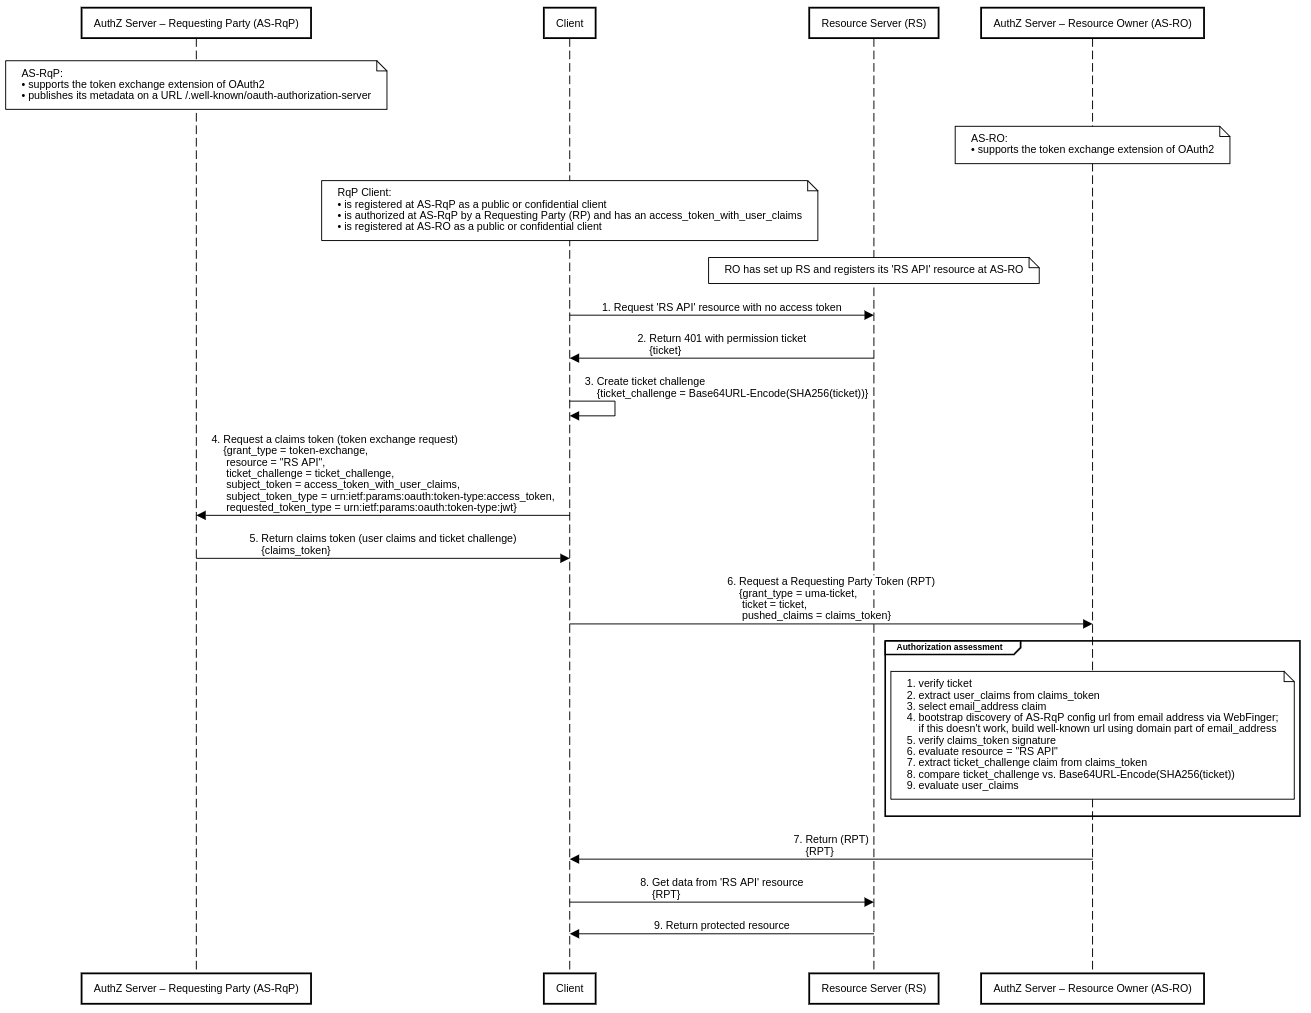
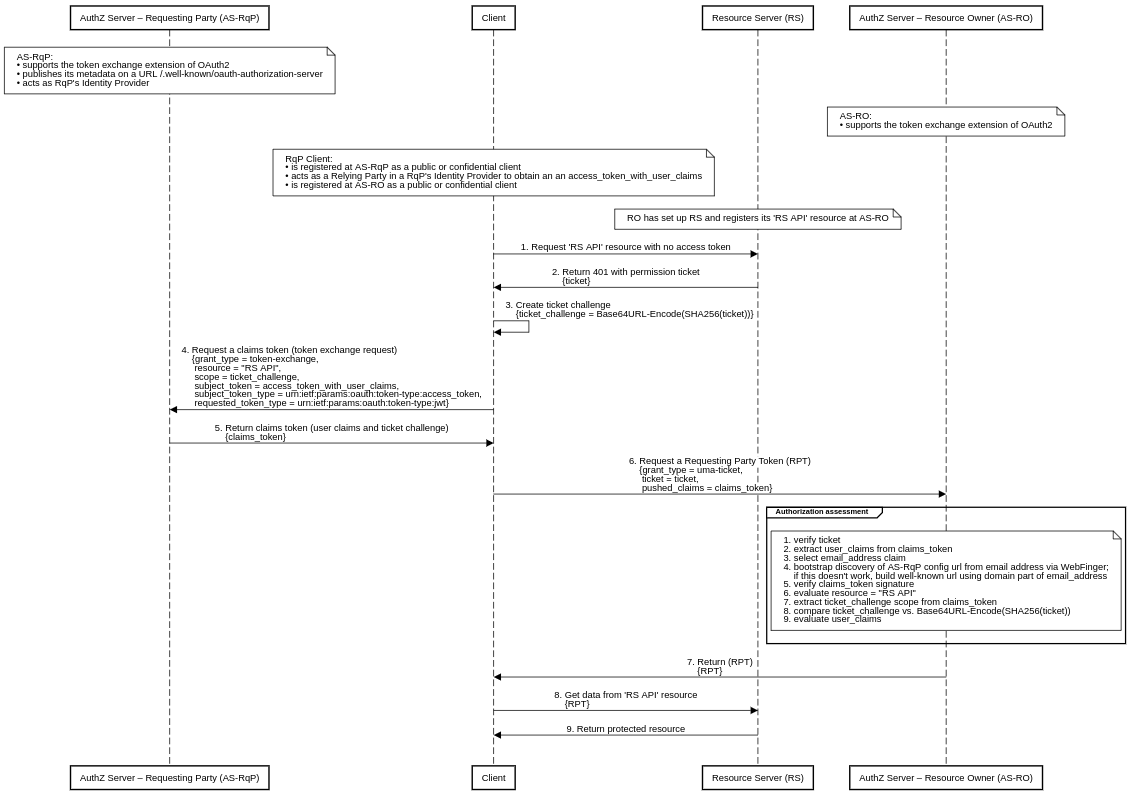
major update

diff --git a/README.md b/README.md
@@ -1,10 +1,10 @@
 # Correlated Authorization
 
-Correlated Authorization (CorrA) is a dual-authority, cross-domain authorization protocol built on top of [OAuth2][1] and [User-Managed Access (UMA)][2] protocols that allows users (resource owners) to delegate access to other users (requesting parties) across security domains. The requesting party is responsible for creating the request, while the resource owner approves the transaction asynchronously in advance. The resource owner and the requesting party may belong to different security domains or may use mutually isolated instances of the authorization server residing on different network domains. They may also use independent identity providers. This concept uses a permission ticket issued by the resource owner's authorization server as a correlation handle that binds the requesting party's claims to the authorization process. An email address is used as the unique requesting party identifier for cross-domain access control.
+Correlated Authorization (CorrA) is a dual-authority, cross-domain authorization protocol built on top of [User-Managed Access (UMA)][1] and [OAuth2][2] protocols that allows users (resource owners) to delegate access to other users (requesting parties) across security domains. The requesting party is responsible for creating the request, while the resource owner approves this request either when it is online or by creating a policy. The resource owner and the requesting party may belong to different security domains each with its own identity provider and authorization server, administered by its own authority. This concept uses a permission ticket issued by the resource owner's authorization server as a correlation handle that binds the requesting party's claims to the authorization process. An email address is used as the unique requesting party identifier for cross-domain access control.
 
 ## Sequence diagrams
 
-There are two versions of the sequence diagram that describe the mechanism of the CorrA protocol. The first version represents the CorrA profile of the UMA protocol. The second version profiles the OAuth2 protocol. Both profiles rely on the token exchange extension of OAuth2, where an access token is used to obtain a claims token from the authorization server.
+There are two versions of the sequence diagram that describe the mechanism of the CorrA protocol. The first version represents the CorrA profile of the UMA protocol. The second version profiles the OAuth2 protocol. Both profiles rely on the token exchange extension of OAuth2, where an access token is used to obtain a claims token from the Security Token Service (STS) endpoint.
 
 ### UMA profile
 
@@ -15,8 +15,9 @@ This diagram is in full compliance with the UMA specification.
 Prerequisites:
 
 * Both authorization servers support the [OAuth 2.0 Token Exchange][5] extension of OAuth2.
-* The AS-RqP publishes its metadata on a URL /.well-known/oauth-authorization-server.
-* The RqP Client is registered at the AS-RqP as a public or confidential client and is authorized at the AS-RqP by a RP and has an access token with user claims.
+* The AS-RqP also acts as RqP's Identity Provider.
+* The AS-RqP publishes its metadata on a URL /.well-known/oauth-authorization-server (alternatively on /.well-known/openid-configuration).
+* The RqP Client is registered at the AS-RqP as a public or confidential client and acts as a Relying Party in a RqP's Identity Provider to obtain an access token with user claims.
 * The RqP Client is registered at the AS-RO as a public or confidential client.
 * The RO has set up the RS and registers its 'RS API' resource at the AS-RO according to the [UMA Federated Authorization][6] specification.
 
@@ -41,9 +42,10 @@ This diagram represents a profile of the OAuth2 protocol and lacks some UMA feat
 Prerequisites:
 
 * Both authorization servers support the [OAuth 2.0 Token Exchange][5] extension of OAuth2.
-* The AS-RqP publishes its metadata on a URL /.well-known/oauth-authorization-server.
-* The RqP Client is registered at the AS-RqP as a public or confidential client and is authorized at the AS-RqP by a RP and has an access token with user claims.
-* The RqP Client is registered at the AS-RO as a public or confidential client..
+* The AS-RqP also acts as RqP's Identity Provider.
+* The AS-RqP publishes its metadata on a URL /.well-known/oauth-authorization-server (alternatively on /.well-known/openid-configuration).
+* The RqP Client is registered at the AS-RqP as a public or confidential client and acts as a Relying Party in a RqP's Identity Provider to obtain an access token with user claims.
+* The RqP Client is registered at the AS-RO as a public or confidential client.
 * The RO registers the RS at the AS-RO to protect its RS API.
 
 Steps:
@@ -52,11 +54,15 @@ Steps:
 2. The AS-RO returns the permission ticket.
 3. The RqP Client creates a ticket challenge derived from the permission ticket using the following transformation ticket_challenge = Base64URL-Encode(SHA256(ticket)).
 4. At the AS-RqP the RqP Client requests a claims token by presenting the access token with user claims and the created ticket challenge.
-5. The AS-RqP returns the claims token.
-6. At the AS-RO the RqP Client requests an access token by presenting the claims token and the permission ticket.
+5. The AS-RqP returns the claims (JWT) token.
+6. At the AS-RO the RqP Client requests an access token via a JWT grant type by presenting the claims (JWT) token and the permission ticket.
 7. After an authorization assessment, it is positive, the AS-RO returns the access token.
 8. With the valid access token the RqP Client tries to access the 'RS API'.
 9. The RS validates the access token, it is valid, the RS allow access the protected 'RS API' resource.
+
+## Scenarios
+
+...
 
 ## Use cases
 
@@ -79,8 +85,8 @@ WIP, early stage [umabox.org][7].
 
 Credits go to [WG - User-Managed Access][8].
 
-[1]: https://datatracker.ietf.org/doc/html/rfc6749
-[2]: https://en.wikipedia.org/wiki/User-Managed_Access
+[1]: https://en.wikipedia.org/wiki/User-Managed_Access
+[2]: https://datatracker.ietf.org/doc/html/rfc6749
 [3]: https://github.com/uma-email/proposal/blob/master/correlated-authorization-draft-00.pdf
 [4]: https://github.com/uma-email/proposal/blob/master/authorization-enhanced-mail-system-draft-02.pdf
 [5]: https://www.rfc-editor.org/rfc/rfc8693.html
